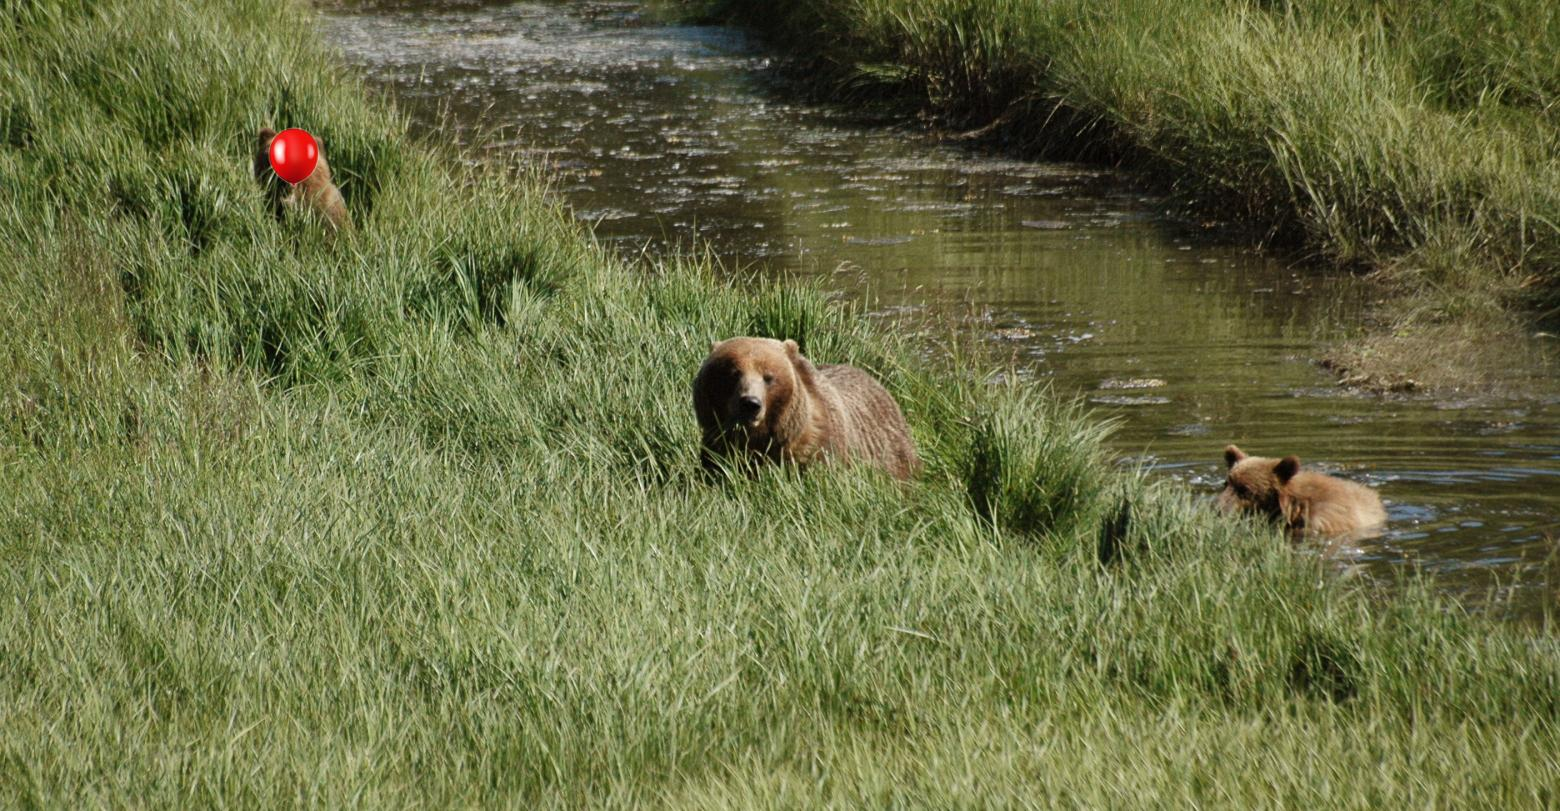
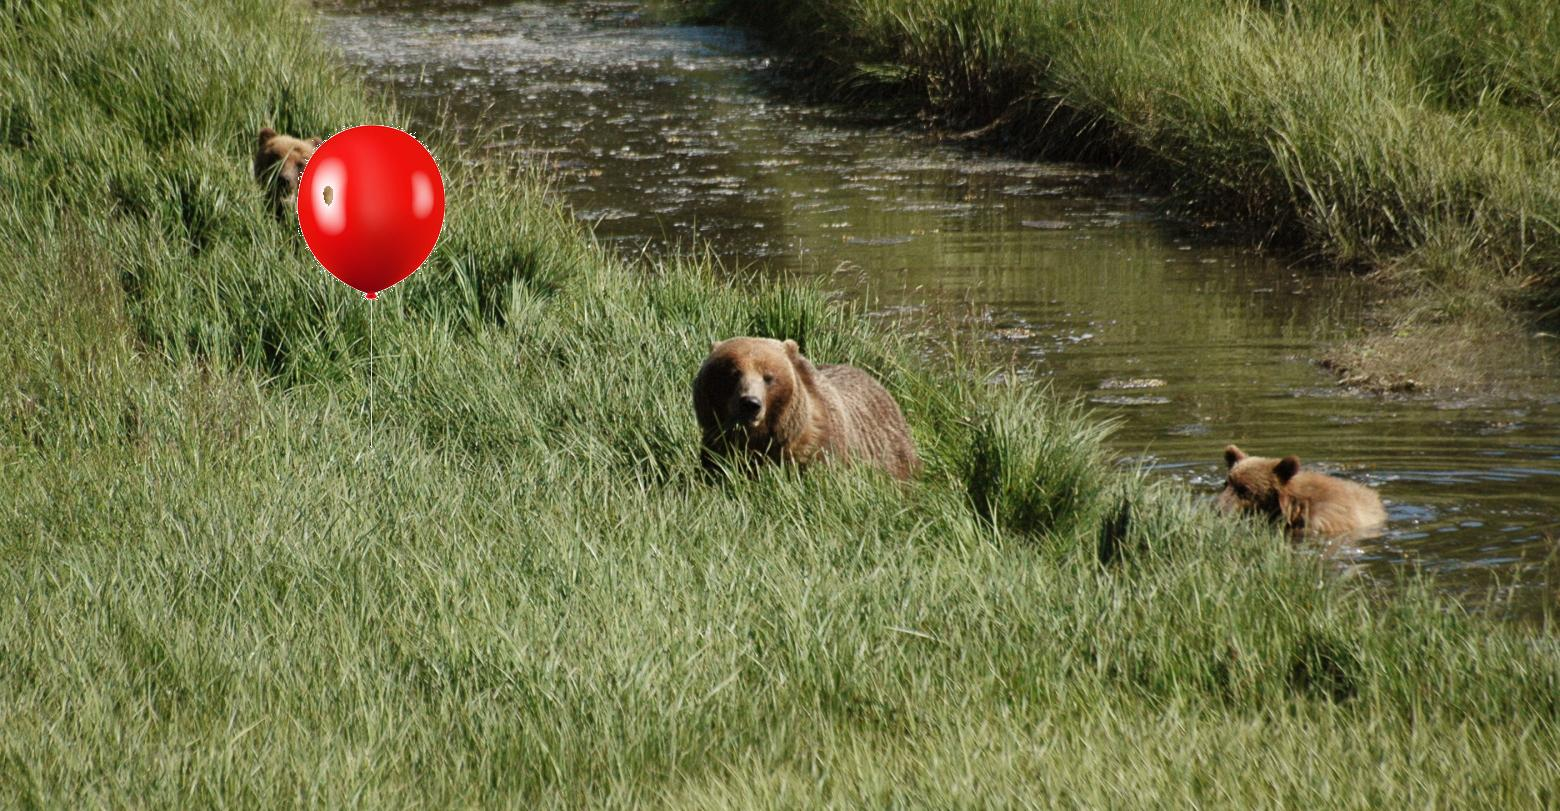
changed some code to iterate the long way

Changed region(s): [[0.1538, 0.1541, 0.3077, 0.3699]]

diff --git a/CS1410/bears3.py b/CS1410/bears3.py
@@ -1,58 +1,23 @@
 from PIL import Image, ImageFilter
 
 filename = 'starr_bears.jpg'
-filepath = f"{filename}"
-
 file_out = 'bears3.jpg'
-file_out_path = f"{file_out}"
-
 file_ball = 'redBalloon.jpg'
-file_ball_path = f"{file_ball}"
 
-def erode(cycles, image):
-    for x in range(cycles):
-        image = image.filter(ImageFilter.MinFilter(3))
-    return image
+with Image.open(file_ball) as ball_img, Image.open(filename) as bears_img:
+    ball_pixel_map = ball_img.load()
+    bears_pixel_map = bears_img.load()
 
-def dilate(cycles, image):
-    for x in range(cycles):
-        image = image.filter(ImageFilter.MaxFilter(3))
-    return image
+    start_x = 200
+    start_y = 100
 
-with Image.open(file_ball_path) as ball_img:
-    ball_img = ball_img.crop((70, 0, 280, 230))
-    #ball_img.show()
-    red, green, blue = ball_img.split()
-    #red.show()
-    #green.show()
-    #blue.show()
+    for x in range(ball_img.width):
+        for y in range(ball_img.height):
+            r, g, b = ball_pixel_map[x, y]
 
-    threshold = 57
-    ball_img_threshold = green.point(lambda x: 0 if x > threshold else 255)
-    ball_img_threshold = ball_img_threshold.convert("1")
-    # ball_img_threshold.show()
-
-    step_1 = dilate(16, ball_img_threshold)
-    ball_mask = erode(16, step_1)
-    
-    # step_1.show()
-    # ball_mask.show()
-
-    ball_mask = ball_mask.convert("L")
-    ball_mask = ball_mask.filter(ImageFilter.BoxBlur(4))
-    # ball_mask.show()
-
-    blank = ball_img.point(lambda _: 0)
-    ball_segmented = Image.composite(ball_img, blank, ball_mask)
-    # ball_segmented.show()
-
-with Image.open(filepath) as bears_img:
-    bears_img.paste(
-        ball_img.resize((ball_img.width // 3, ball_img.height //3)),
-        (260, 120),
-        ball_mask.resize((ball_mask.width // 3, ball_mask.height //3))
-    )
-    # bears_img.show()
+            if r > 240 and g > 240 and b > 240:
+                continue
+            bears_pixel_map[start_x + x, start_y + y] = (r, g, b)
 
 new_image = bears_img
-new_image.save(file_out_path)
+new_image.save(file_out)

diff --git a/CS1410/bears3 erode and dilate.py b/CS1410/bears3 erode and dilate.py
@@ -1,0 +1,47 @@
+from PIL import Image, ImageFilter
+
+filename = 'starr_bears.jpg'
+filepath = f"{filename}"
+
+file_out = 'bears3.jpg'
+file_out_path = f"{file_out}"
+
+file_ball = 'redBalloon.jpg'
+file_ball_path = f"{file_ball}"
+
+def erode(cycles, image):
+    for x in range(cycles):
+        image = image.filter(ImageFilter.MinFilter(3))
+    return image
+
+def dilate(cycles, image):
+    for x in range(cycles):
+        image = image.filter(ImageFilter.MaxFilter(3))
+    return image
+
+with Image.open(file_ball_path) as ball_img:
+    ball_img = ball_img.crop((70, 0, 280, 230))
+    red, green, blue = ball_img.split()
+
+    threshold = 57
+    ball_img_threshold = green.point(lambda x: 0 if x > threshold else 255)
+    ball_img_threshold = ball_img_threshold.convert("1")
+
+    step_1 = dilate(16, ball_img_threshold)
+    ball_mask = erode(16, step_1)
+
+    ball_mask = ball_mask.convert("L")
+    ball_mask = ball_mask.filter(ImageFilter.BoxBlur(4))
+
+    blank = ball_img.point(lambda _: 0)
+    ball_segmented = Image.composite(ball_img, blank, ball_mask)
+
+with Image.open(filepath) as bears_img:
+    bears_img.paste(
+        ball_img.resize((ball_img.width // 3, ball_img.height //3)),
+        (260, 120),
+        ball_mask.resize((ball_mask.width // 3, ball_mask.height //3))
+    )
+
+new_image = bears_img
+new_image.save(file_out_path)

diff --git a/CS1410/bears2.py b/CS1410/bears2.py
@@ -1,12 +1,24 @@
 from PIL import Image
 
-filename = '.\\starr_bears.jpg'
+filename = 'starr_bears.jpg'
 filepath = f"{filename}"
 
-file_out = '.\\bears2.jpg'
+file_out = 'bears2.jpg'
 file_out_path = f"{file_out}"
 
 orig_image = Image.open(filepath)
-new_image = orig_image.convert('L')
-new_image.save(file_out_path)
+
+width, height = orig_image.size
+
+pixel_map = orig_image.load()
+
+for x in range(width):
+    for y in range(height):
+        pixel_data = pixel_map[x, y]
+        r, g, b = pixel_data[0], pixel_data[1], pixel_data[2]
+
+        grayScale = int(0.299 * r + 0.587 * g + 0.114 * b)
+        pixel_map[x, y] = (grayScale, grayScale, grayScale)
+
+orig_image.save(file_out_path)
 
